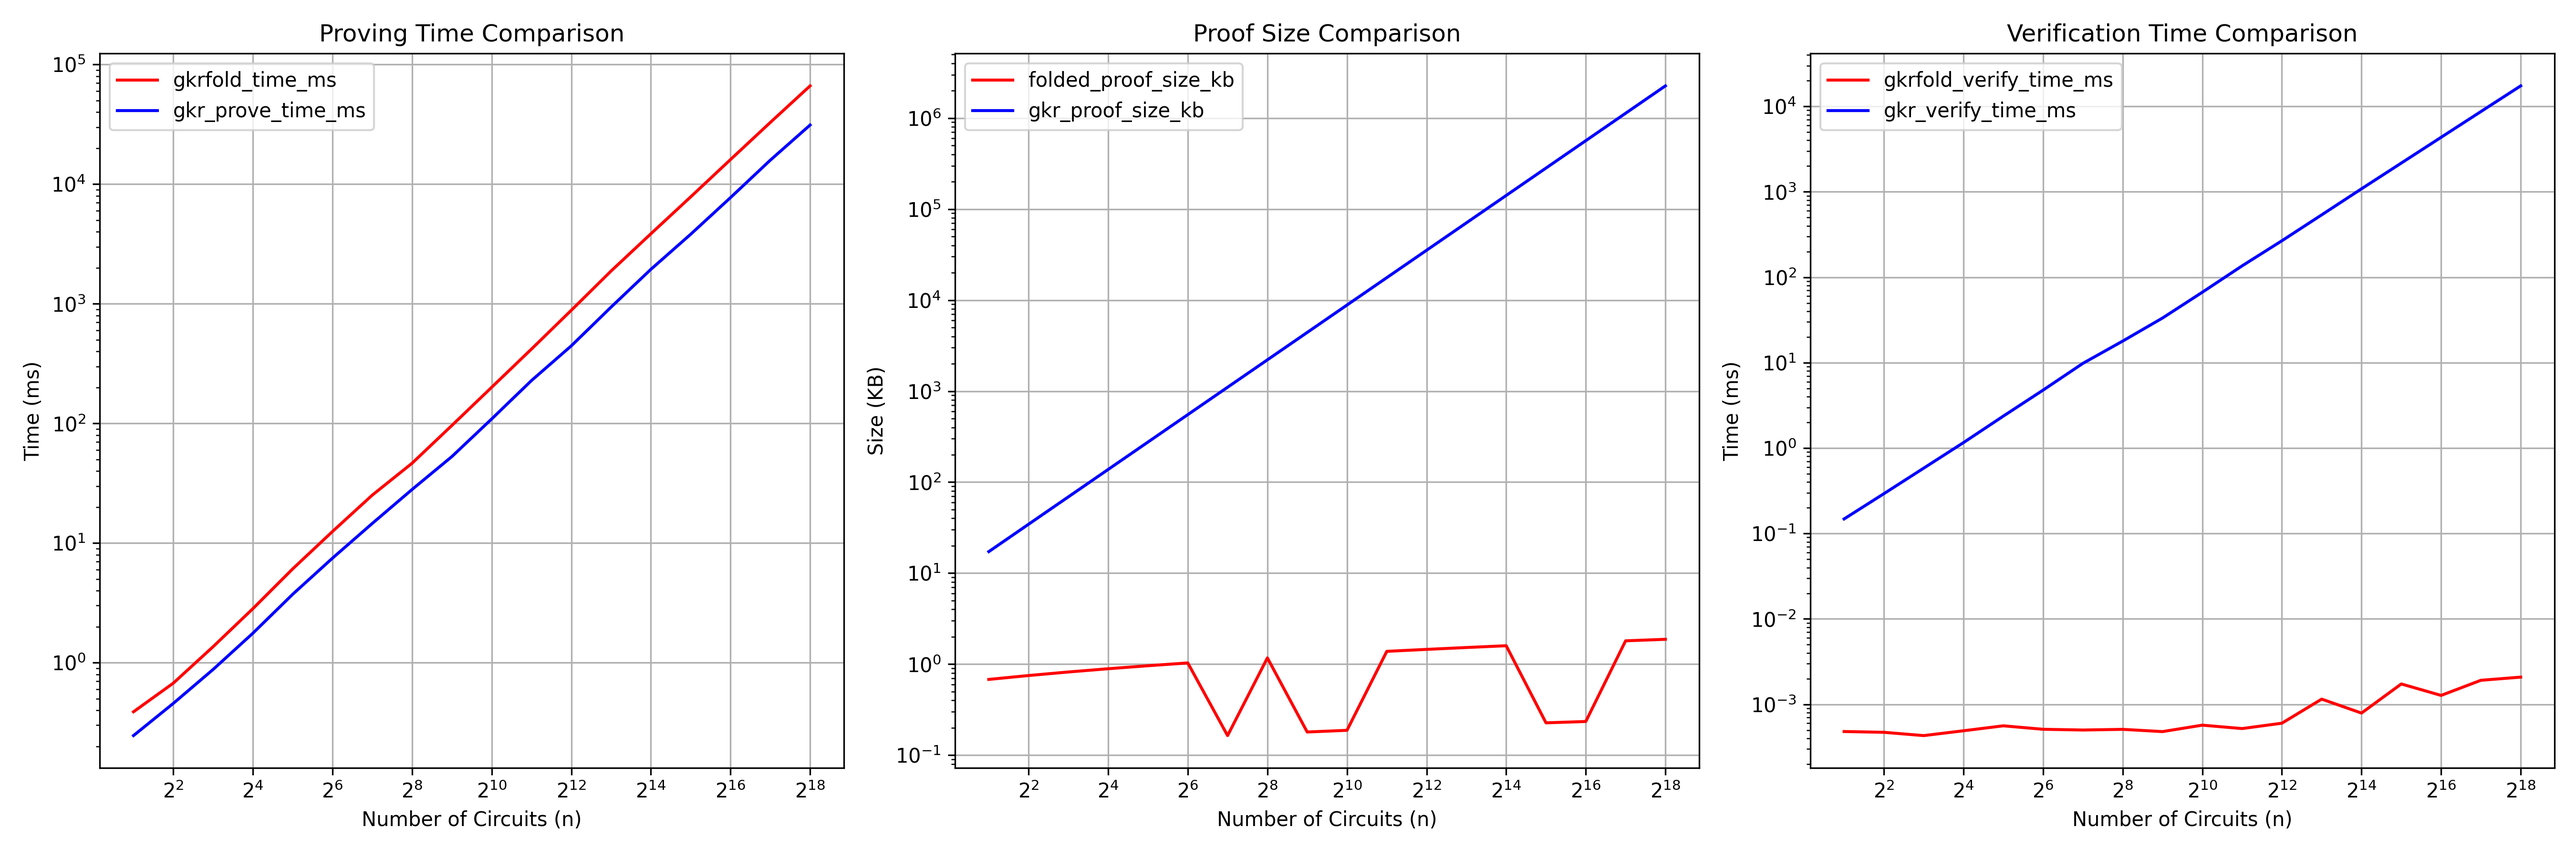
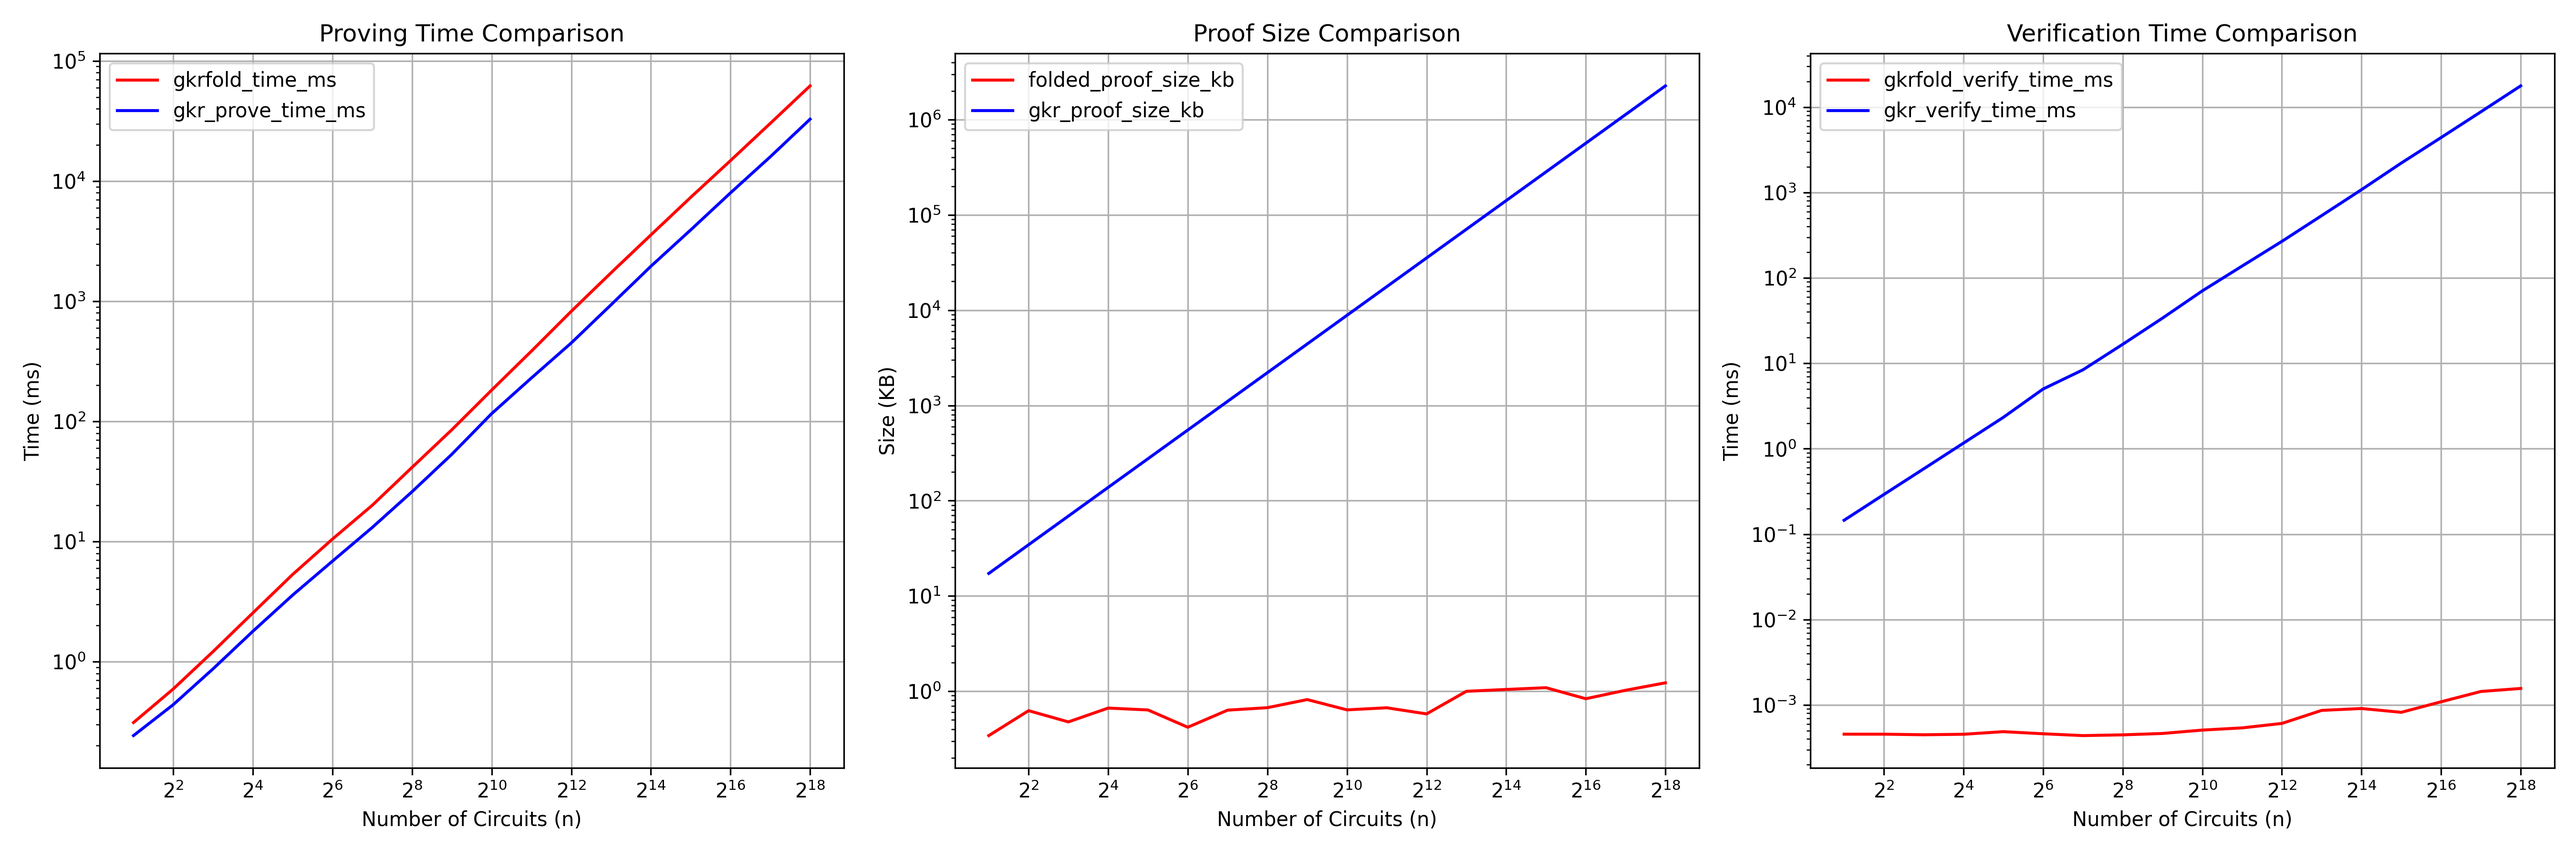
take average bench result

diff --git a/benches/bench_gkr_fold.rs b/benches/bench_gkr_fold.rs
@@ -177,27 +177,69 @@ fn main() {
     // Run benchmarks for different values of n
     let ns = [2, 4, 8, 16, 32, 64, 128, 256, 512, 1024, 2048, 4096, 8192, 16384, 32768, 65536, 131072, 262144];
     let d = 32; // Fixed number of layers
+    let num_runs = 10; // Number of runs for each n
 
     for &n in &ns {
         println!("\n=== Benchmarking with n={} ===", n);
 
-        // Run the benchmark
-        let result = run_benchmark(n, d);
+        // Variables to store accumulated results
+        let mut total_gkrfold_time_ms = 0.0;
+        let mut total_gkrfold_memory_mb = 0.0;
+        let mut total_folded_proof_size_kb = 0.0;
+        let mut total_folded_proof_verify_time_ms = 0.0;
+        let mut total_single_prove_time_ms = 0.0;
+        let mut total_single_proof_size_kb = 0.0;
+        let mut total_single_proof_verify_time_ms = 0.0;
 
-    // Write the result to the CSV file
-    writeln!(
-        file,
-        "{},{},{},{},{},{},{},{}",
-        result.0, // n
-        result.1, // gkrfold_time_ms
-        result.2, // gkrfold_memory_mb
-        result.3, // folded_proof_size_kb
-        result.4, // folded_proof_verify_time_ms
-        result.5, // single_prove_time_ms
-        result.6, // single_proof_size_kb
-        result.7  // single_proof_verify_time_ms
-    )
-    .unwrap();
+        // Run the benchmark multiple times
+        for run in 1..=num_runs {
+            println!("  Run {}/{}", run, num_runs);
+
+            // Run the benchmark
+            let result = run_benchmark(n, d);
+
+            // Accumulate results
+            total_gkrfold_time_ms += result.1;
+            total_gkrfold_memory_mb += result.2;
+            total_folded_proof_size_kb += result.3;
+            total_folded_proof_verify_time_ms += result.4;
+            total_single_prove_time_ms += result.5;
+            total_single_proof_size_kb += result.6;
+            total_single_proof_verify_time_ms += result.7;
+        }
+
+        // Calculate averages
+        let avg_gkrfold_time_ms = total_gkrfold_time_ms / (num_runs as f64);
+        let avg_gkrfold_memory_mb = total_gkrfold_memory_mb / (num_runs as f64);
+        let avg_folded_proof_size_kb = total_folded_proof_size_kb / (num_runs as f64);
+        let avg_folded_proof_verify_time_ms = total_folded_proof_verify_time_ms / (num_runs as f64);
+        let avg_single_prove_time_ms = total_single_prove_time_ms / (num_runs as f64);
+        let avg_single_proof_size_kb = total_single_proof_size_kb / (num_runs as f64);
+        let avg_single_proof_verify_time_ms = total_single_proof_verify_time_ms / (num_runs as f64);
+
+        println!("  Average results after {} runs:", num_runs);
+        println!("  GKRFold time: {:.2} ms", avg_gkrfold_time_ms);
+        println!("  GKRFold memory usage: {:.2} MB", avg_gkrfold_memory_mb);
+        println!("  Folded proof size: {:.2} KB", avg_folded_proof_size_kb);
+        println!("  Folded proof verify time: {:.2} ms", avg_folded_proof_verify_time_ms);
+        println!("  Single circuit prove time: {:.2} ms", avg_single_prove_time_ms);
+        println!("  Single proof size: {:.2} KB", avg_single_proof_size_kb);
+        println!("  Single proof verify time: {:.2} ms", avg_single_proof_verify_time_ms);
+
+        // Write the average result to the CSV file
+        writeln!(
+            file,
+            "{},{},{},{},{},{},{},{}",
+            n, // n
+            avg_gkrfold_time_ms,
+            avg_gkrfold_memory_mb,
+            avg_folded_proof_size_kb,
+            avg_folded_proof_verify_time_ms,
+            avg_single_prove_time_ms,
+            avg_single_proof_size_kb,
+            avg_single_proof_verify_time_ms
+        )
+        .unwrap();
     }
 
     println!("\nBenchmark completed. Results saved to gkrfold_benchmark_results.csv");
